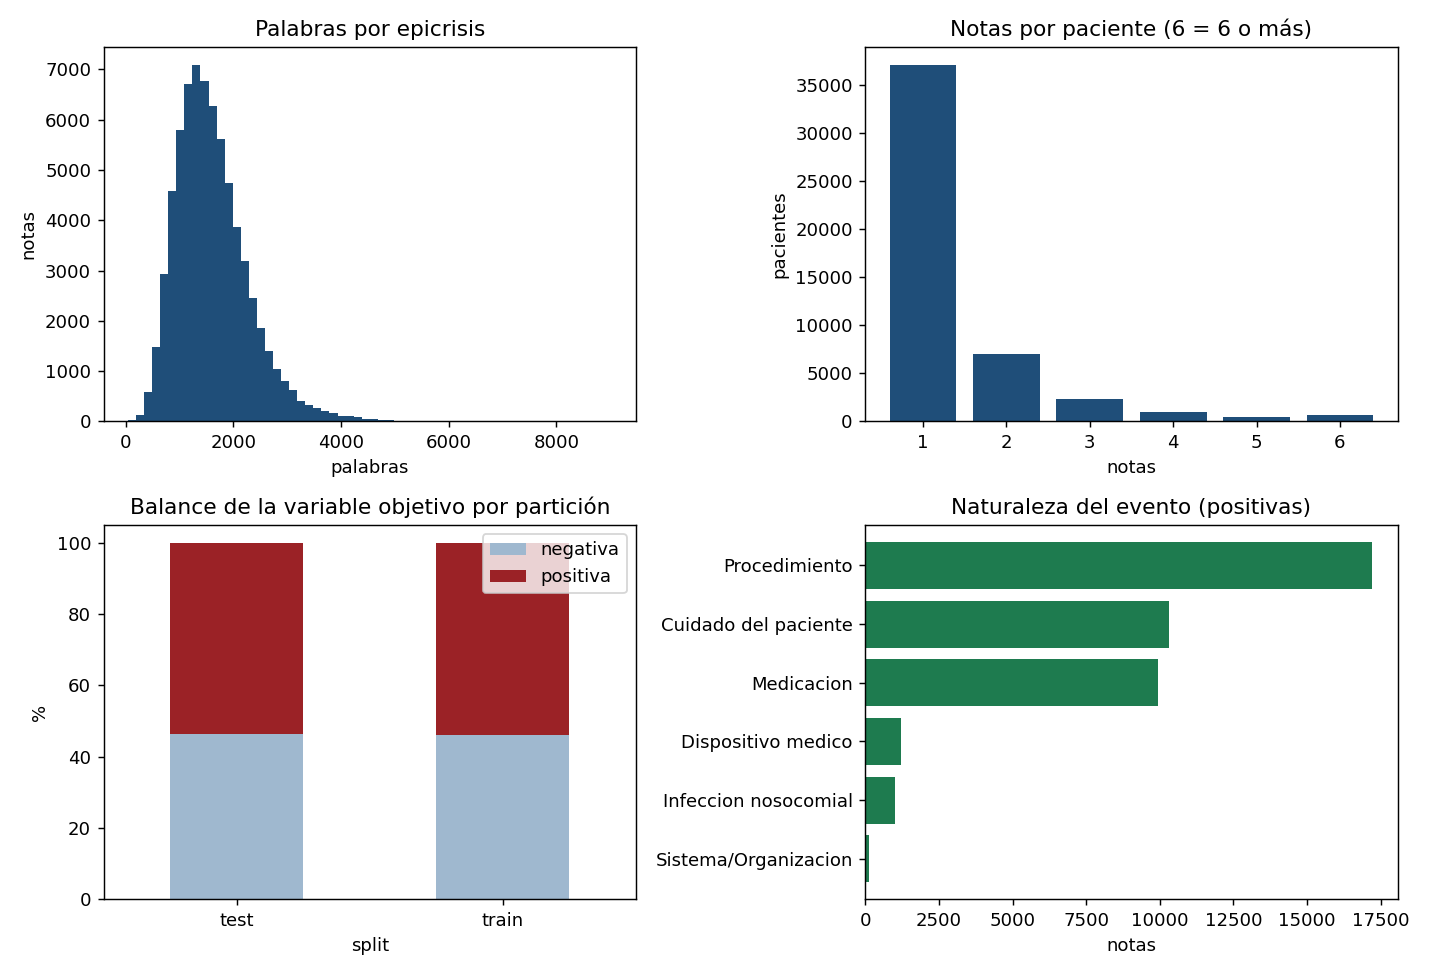
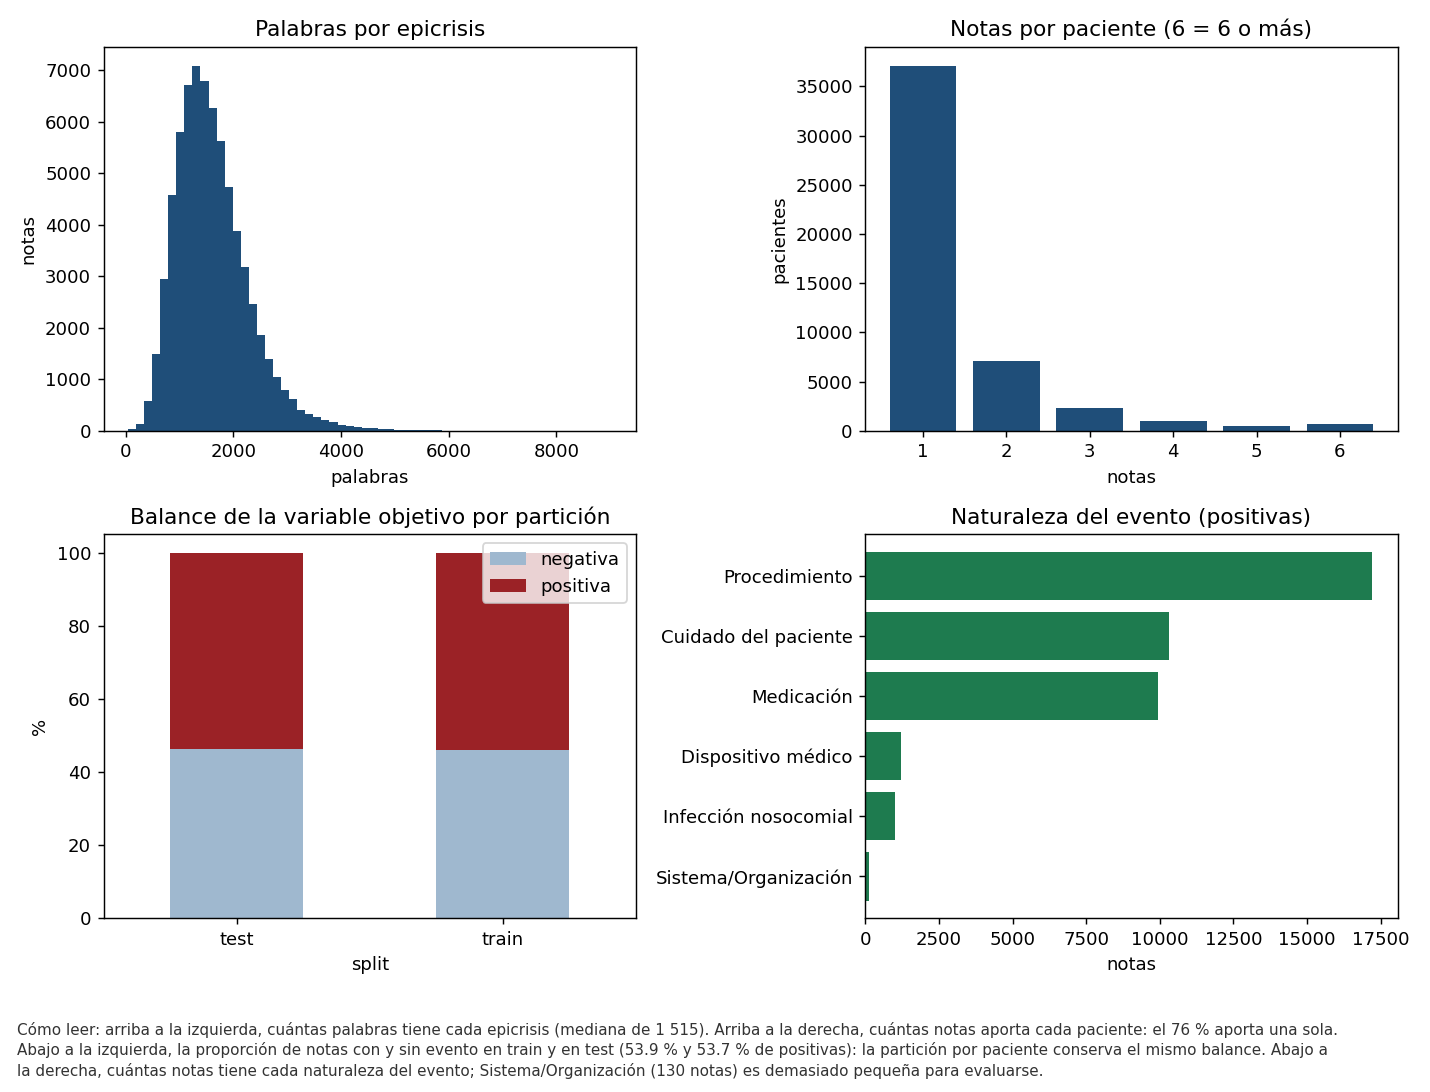
EDA: explicación corta al pie de cada figura (cómo leerla y qué muestra), correlaciones con tres decimales y nombres de naturalezas con tilde

diff --git a/src/eda.py b/src/eda.py
@@ -68,6 +68,29 @@ def describir(serie):
     return {k: round(float(d[k]), 2) for k in ["count", "mean", "std", "min", "25%", "50%", "75%", "max"]}
 
 
+NOMBRE_NAT = {"Medicacion": "Medicación", "Infeccion nosocomial": "Infección nosocomial",
+              "Dispositivo medico": "Dispositivo médico", "Sistema/Organizacion": "Sistema/Organización"}
+
+
+def _mil(n):
+    """Miles separados con espacio que no se parte entre renglones (70 000)."""
+    return f"{int(round(n)):,}".replace(",", " ")
+
+
+def _r1(x):
+    """Redondeo convencional a un decimal (53.65 -> 53.7)."""
+    from decimal import Decimal, ROUND_HALF_UP
+    return str(Decimal(str(x)).quantize(Decimal("0.1"), rounding=ROUND_HALF_UP))
+
+
+def pie(fig, texto, ancho, alto):
+    """Explicación corta al pie de la figura, para que se entienda aunque se abra sola."""
+    import textwrap
+    fig.tight_layout(rect=(0, alto, 1, 1))
+    fig.text(0.012, 0.012, "\n".join(textwrap.wrap(texto, ancho)), ha="left", va="bottom",
+             fontsize=8.4, color="#333", linespacing=1.35)
+
+
 def figura_flujo(R, ruta):
     """Diagrama del flujo del EDA: los diez pasos en orden, con el resultado de cada uno y su estado.
     Todas las cifras salen del diccionario de resultados R (nada se escribe a mano)."""
@@ -186,6 +209,9 @@ def figura_flujo(R, ruta):
     xc = cajas[7][0] + W / 2
     ax.add_patch(FancyArrowPatch((xc, cajas[7][1] - 0.4), (xc, 10.2), arrowstyle="-|>", mutation_scale=13, color=AZUL, lw=1.5))
 
+    ax.text(1.5, -1.3, "Cómo leer: cada caja es un paso del análisis; en cursiva, la pregunta que responde, y en negrita, el "
+            "resultado de esta corrida. Las flechas marcan el orden, y cada decisión de abajo indica de qué paso sale.",
+            ha="left", va="top", fontsize=9.5, color="#333")
     fig.savefig(ruta, dpi=150, bbox_inches="tight", facecolor="white")
     plt.close(fig)
 
@@ -311,7 +337,7 @@ def main():
     log.info(f"8. Spearman con y: {R['correlaciones_spearman']['con_y']}")
 
     # ---------- figuras
-    fig, ax = plt.subplots(1, 2, figsize=(11, 4))
+    fig, ax = plt.subplots(1, 2, figsize=(11, 4.9))
     for y, nombre in [(0, "negativa"), (1, "positiva")]:
         ax[0].hist(np.log10(df.loc[df.y == y, "largo"]), bins=60, alpha=.55, density=True, label=nombre)
     ax[0].set(xlabel="log10(caracteres)", ylabel="densidad", title=f"Largo de la epicrisis (AUC del largo solo = {auc_largo:.3f})")
@@ -320,9 +346,16 @@ def main():
     ax[1].axhline(100 * df.y.mean(), ls="--", c="gray", label=f"promedio {100*df.y.mean():.1f} %")
     ax[1].set(xlabel="decil de largo (1 = más corto)", ylabel="% de notas con evento", title="Positivas por decil de largo")
     ax[1].legend()
-    fig.tight_layout(); fig.savefig(FIG / "fig_eda_largo.png", dpi=130); plt.close(fig)
+    med = R["largo"]["mediana_por_clase"]
+    pie(fig, "Cómo leer: a la izquierda, la distribución del largo de las epicrisis en escala logarítmica; en azul las notas sin "
+             "evento y en naranja las notas con evento. A la derecha, el porcentaje de notas con evento en cada decil de largo, con "
+             "el promedio en línea punteada. Lectura: las notas con evento son más largas (mediana de "
+             f"{_mil(med['positiva'])} frente a {_mil(med['negativa'])} caracteres; AUC del largo solo = {auc_largo:.3f}) y el "
+             f"porcentaje de positivas sube de {pct_decil[0]} % en el decil más corto a {pct_decil[-1]} % en el más largo: riesgo "
+             "moderado de que el modelo use el largo como atajo.", 175, 0.17)
+    fig.savefig(FIG / "fig_eda_largo.png", dpi=130); plt.close(fig)
 
-    fig, ax = plt.subplots(2, 2, figsize=(11, 7.5))
+    fig, ax = plt.subplots(2, 2, figsize=(11, 8.4))
     ax[0, 0].hist(df.palabras, bins=60, color="#1F4E79"); ax[0, 0].set(title="Palabras por epicrisis", xlabel="palabras", ylabel="notas")
     npp = df.groupby("subject_id").size()
     ax[0, 1].bar(*np.unique(np.clip(npp, 1, 6), return_counts=True), color="#1F4E79")
@@ -330,11 +363,20 @@ def main():
     bal = pd.crosstab(df.split, df.y, normalize="index").mul(100)
     bal.plot(kind="bar", stacked=True, ax=ax[1, 0], color=["#9FB8CF", "#9B2226"], rot=0)
     ax[1, 0].set(title="Balance de la variable objetivo por partición", ylabel="%"); ax[1, 0].legend(["negativa", "positiva"])
-    ax[1, 1].barh(list(R["naturaleza"]["conteo"].keys())[::-1], list(R["naturaleza"]["conteo"].values())[::-1], color="#1E7B4F")
+    ax[1, 1].barh([NOMBRE_NAT.get(k, k) for k in R["naturaleza"]["conteo"].keys()][::-1], list(R["naturaleza"]["conteo"].values())[::-1], color="#1E7B4F")
     ax[1, 1].set(title="Naturaleza del evento (positivas)", xlabel="notas")
-    fig.tight_layout(); fig.savefig(FIG / "fig_eda_distribuciones.png", dpi=130); plt.close(fig)
+    menor = R["naturaleza"]["clases_menores_de_200"]
+    txt_menor = (f"{NOMBRE_NAT.get(menor[0], menor[0])} ({_mil(R['naturaleza']['conteo'][menor[0]])} notas) es demasiado pequeña para evaluarse."
+                 if menor else "todas las naturalezas tienen 200 notas o más.")
+    pie(fig, "Cómo leer: arriba a la izquierda, cuántas palabras tiene cada epicrisis (mediana de "
+             f"{_mil(R['descriptivas']['palabras']['50%'])}). Arriba a la derecha, cuántas notas aporta cada paciente: el "
+             f"{100 * float((npp == 1).mean()):.0f} % aporta una sola. Abajo a la izquierda, la proporción de notas con y sin evento "
+             f"en train y en test ({_r1(R['balance']['train']['pct_positivas'])} % y {_r1(R['balance']['test']['pct_positivas'])} % "
+             "de positivas): la partición por paciente conserva el mismo balance. Abajo a la derecha, cuántas notas tiene cada "
+             f"naturaleza del evento; {txt_menor}", 175, 0.09)
+    fig.savefig(FIG / "fig_eda_distribuciones.png", dpi=130); plt.close(fig)
 
-    fig, ax = plt.subplots(1, 2, figsize=(10, 4))
+    fig, ax = plt.subplots(1, 2, figsize=(10, 4.9))
     epc = pd.crosstab(df.y, df.epoca, normalize="index").mul(100)
     epc.index = ["negativa", "positiva"]; epc.columns = [f"CIE-{int(c)}" for c in epc.columns]
     epc.plot(kind="bar", stacked=True, ax=ax[0], rot=0, color=["#9FB8CF", "#1F4E79"])
@@ -342,16 +384,27 @@ def main():
     ppe = R["epoca"]["pct_positivas_por_epoca"]
     ax[1].bar(list(ppe.keys()), list(ppe.values()), color="#9B2226")
     ax[1].set(title="% de positivas por época (drift de codificación)", ylabel="% positivas")
-    fig.tight_layout(); fig.savefig(FIG / "fig_eda_balance_epoca.png", dpi=130); plt.close(fig)
+    pc = R["epoca"]["pct_por_clase"]["positiva"]
+    pie(fig, "Cómo leer: a la izquierda, qué parte de cada clase se codificó en CIE-9 y qué parte en CIE-10; las dos barras son "
+             f"iguales ({pc['CIE-9']:.1f} % y {pc['CIE-10']:.1f} %). A la derecha, el porcentaje de notas con evento dentro de cada "
+             f"época ({ppe['CIE-9']} % en CIE-9 y {ppe['CIE-10']} % en CIE-10). Lectura: la época de codificación no separa las clases "
+             f"(AUC de la época sola = {auc_epoca:.3f}), así que el modelo no puede aprender la época en lugar del evento.", 160, 0.15)
+    fig.savefig(FIG / "fig_eda_balance_epoca.png", dpi=130); plt.close(fig)
 
-    fig, ax = plt.subplots(figsize=(6.5, 5.5))
+    fig, ax = plt.subplots(figsize=(6.8, 7.2))
     im = ax.imshow(corr, cmap="RdBu_r", vmin=-1, vmax=1)
     ax.set_xticks(range(len(corr)), corr.columns, rotation=40, ha="right"); ax.set_yticks(range(len(corr)), corr.index)
     for i in range(len(corr)):
         for j in range(len(corr)):
-            ax.text(j, i, f"{corr.iloc[i, j]:.2f}", ha="center", va="center", fontsize=8)
+            ax.text(j, i, f"{abs(corr.iloc[i, j]) if corr.iloc[i, j] == 0 else corr.iloc[i, j]:.3f}", ha="center", va="center", fontsize=7.5)
     ax.set_title("Correlación de Spearman\n(variable objetivo en la última fila)", fontsize=10); fig.colorbar(im, ax=ax, shrink=0.85)
-    fig.tight_layout(); fig.savefig(FIG / "fig_eda_correlaciones.png", dpi=130); plt.close(fig)
+    cy = R["correlaciones_spearman"]["con_y"]
+    pie(fig, "Cómo leer: cada celda es la correlación de Spearman entre dos variables, de -1 a 1 (rojo, positiva; azul, negativa; "
+             "blanco, sin relación). La última fila es la variable objetivo: su relación con el largo "
+             f"({cy['largo (caracteres)']:.3f}), las palabras ({cy['palabras']:.3f}) y las notas del paciente "
+             f"({cy['notas del paciente']:.3f}) es débil, y con la época es nula ({abs(cy['época CIE']):.3f}). El bloque rojo del "
+             "centro solo indica que largo, logaritmo del largo y palabras miden lo mismo.", 100, 0.15)
+    fig.savefig(FIG / "fig_eda_correlaciones.png", dpi=130); plt.close(fig)
     log.info("figuras: fig_eda_largo.png, fig_eda_distribuciones.png, fig_eda_balance_epoca.png, fig_eda_correlaciones.png")
 
     # ---------- 9. riesgos y decisiones
